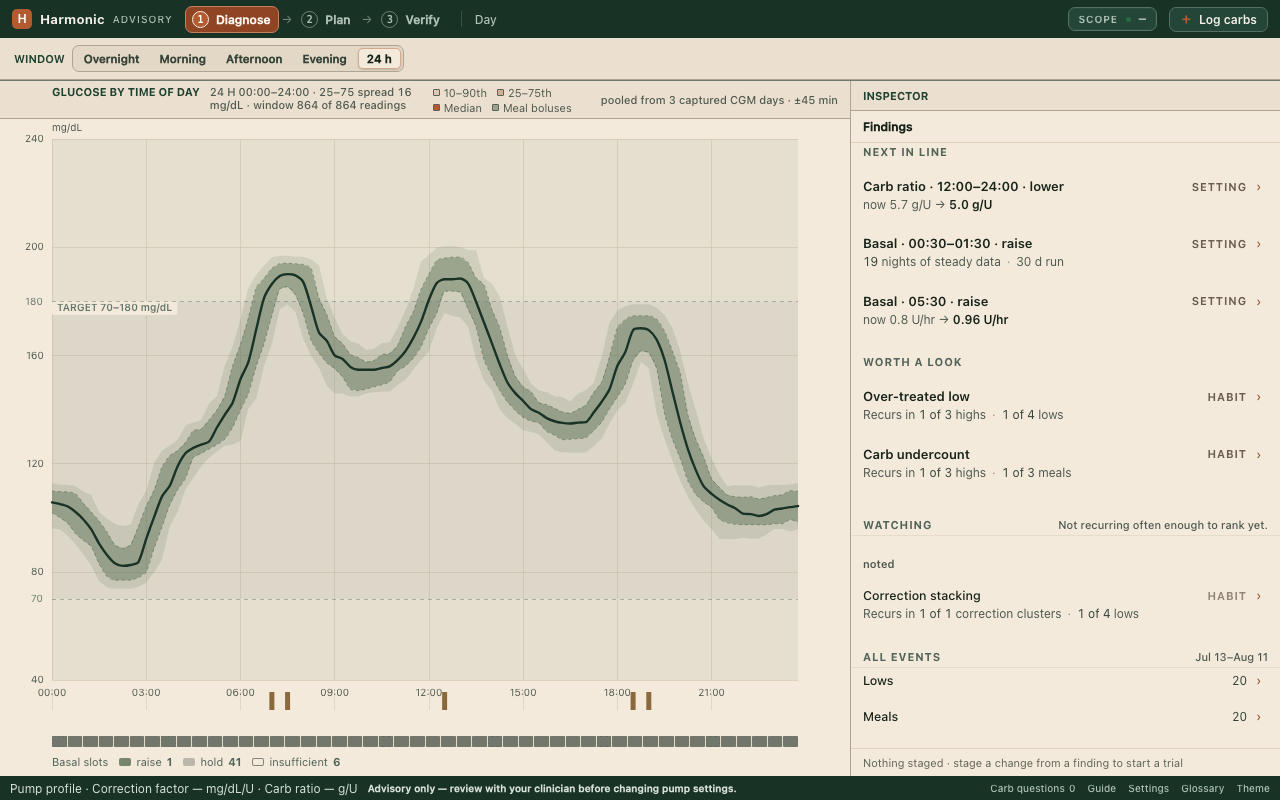
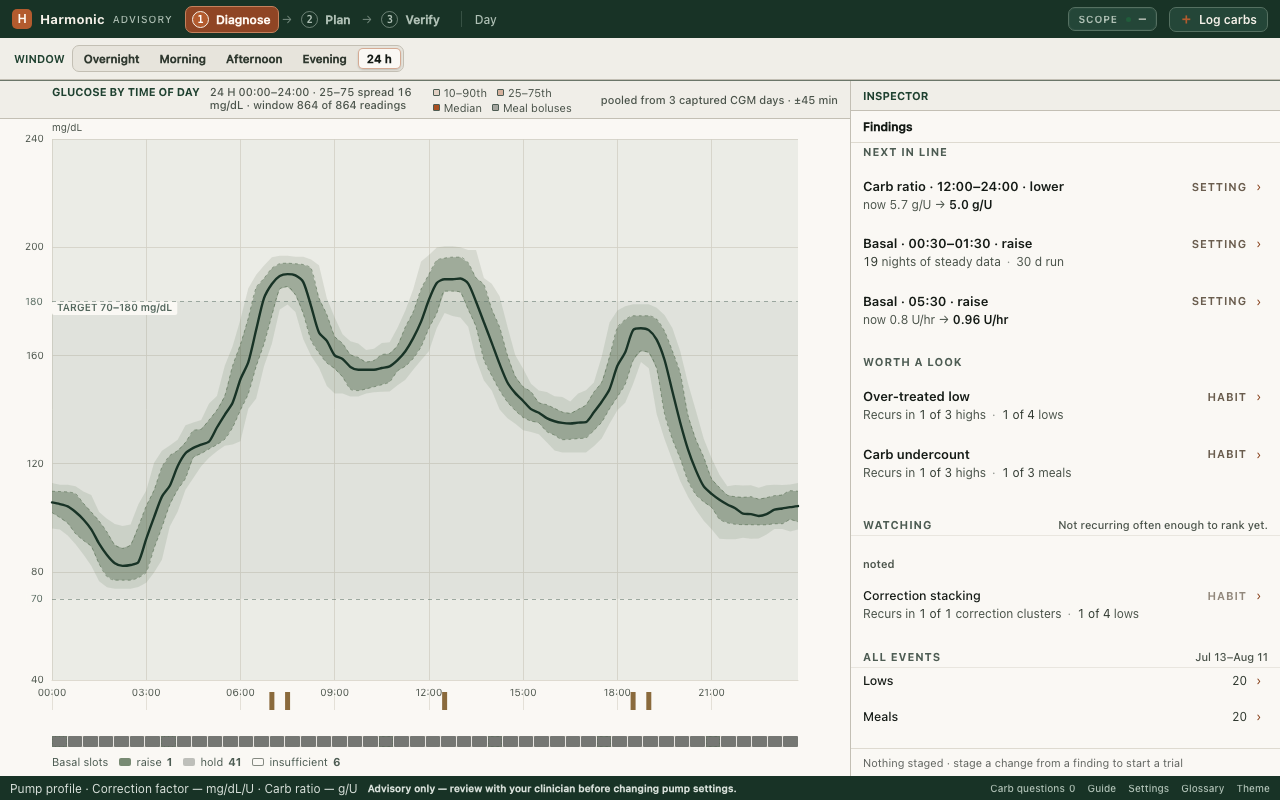
Close the drift hole that let a design exploration measure a retired theme (#46)
* mockups: re-extract the finding→evidence base sheet on the bone theme

`app-base.extracted.css` is generated — build.mjs lifts it verbatim out of
`frontend/index.html`'s <style> blocks — and the committed copy was still the
parchment extract. The relight (63d9053, decision record 37) moved the app's
entire light token block; the extract did not follow, so the exploration
rendered its light half in a palette the application had already retired.

Re-running the build moves 23 declarations: the three grounds, the four inks,
both rules, the signal, the status trio, the accent family, and every clinical
token. The dark block is untouched, because the relight never touched dark.

The two reports and the twenty screenshots follow from that one input. In the
contrast report all 35 light pairs re-measure and all 35 dark pairs are
byte-identical — the split falls exactly along the line the relight drew, which
is what a guard reading live computed style should do and what a guard
comparing constants could not. Every light ratio rises: bone is lighter, so the
dark inks standing on it gain. Every regenerated screenshot is a light one.

No colour was retuned here. The theme moved months ago; this is the mock
catching up to it.

* mockups: give the exploration's build a --check mode, and a CI gate to run it

Nothing in the repository could have caught the stale extract. The build had no
--check mode, unlike the five generators the contributor brief lists, and the
[…]

diff --git a/mockups/finding-evidence-routing.exploration/scene.css b/mockups/finding-evidence-routing.exploration/scene.css
@@ -312,7 +312,7 @@
    applies twice over. Both values below are tuned against their own ground and
    both are asserted by contrast-audit.mjs on every run, which is the only thing
    that stops the next quieting pass from walking them back down:
-     light  `--mk-text` 50% into `--mk-surface-2`  -> 3.51:1 on bone
+     light  `--mk-text` 50% into `--mk-surface-2`  -> 3.82:1 on bone
      dark   `--mk-text` 40% into transparent       -> 3.36:1 on the desk
    The light form still mixes into the column's second surface rather than into
    the ground it sits on, which is the pairing DESIGN.md asks for; only the
@@ -486,10 +486,10 @@ html:not(.dark) .fer-surface .fer-band .seg[aria-pressed="true"] { background: v
    ====================================================================== */
 /* `--ec-near` is `--mk-warn` in both themes, and the Near-rule median is a
  * `limited`-support series, which the shipped lens draws at 1.05px dashed and
- * 58% opacity. On the dark ground that lands as a legible warm dash. On
- * parchment it does not: `--mk-warn` (#9b562d) at 58% over #F3EADB resolves to
- * about #C09476, roughly 1.9:1 against its own ground — a cohort line the reader
- * has to hunt for, on the very chart that exists to compare it.
+ * 58% opacity. On the dark ground that lands as a legible warm dash. On bone it
+ * does not: `--mk-warn` (#94501f) at 58% over #FAF8F4 resolves to about #BF9778,
+ * 2.51:1 against its own ground — a cohort line the reader has to hunt for, on
+ * the very chart that exists to compare it.
  *
  * The alpha is shipped grammar (it is how "limited support" is said, on every
  * cohort), so the INK moves instead: the same warm family, taken far enough down
@@ -641,9 +641,9 @@ html.dark .fer-surface { --ec-near: #d59a60; }
    One declaration each, both themes measured, both derived from the column's own
    ink and surface so the relationship — a recessive track with legible ticks in
    it — resolves the same way on either ground:
-     strip  `--mk-text` 8%  into `--mk-surface`  -> 1.16:1 light / 1.47:1 dark
+     strip  `--mk-text` 8%  into `--mk-surface`  -> 1.17:1 light / 1.47:1 dark
                                                    against the pane (recessive)
-     cell   `--mk-text` 58% into `--mk-surface`  -> 3.33:1 light / 4.39:1 dark
+     cell   `--mk-text` 58% into `--mk-surface`  -> 3.63:1 light / 4.39:1 dark
                                                    against that strip
    The verdict tints (`up` / `down` / `hold` / `insufficient` / `nodata`) are
    shipped rules and still override `--cell`, so they stay the loudest thing in
@@ -675,11 +675,11 @@ html.dark .fer-surface { --ec-near: #d59a60; }
 /* ROUND 11, F3 — THE SWATCHES GET A BOUNDARY, AND KEEP THEIR FILLS.
    Four of the five keys were between 1.23:1 and 2.84:1 against the head rail —
    the percentile swatches inherit the PLOT's own fill alphas (18% and 38% of
-   `--primary`), and on this ground even a solid `--primary` only reaches 3.61:1
+   `--primary`), and on this ground even a solid `--primary` only reaches 4.73:1
    in light, so no alpha exists that would carry a percentile swatch to 3:1. But
    a legend mark is not the plot: what has to clear 1.4.11 is the mark's
    BOUNDARY, and a 1px stroke does that without touching the softness of the
-   bands the chart actually draws. `--mk-secondary` measures 4.90:1 light /
+   bands the chart actually draws. `--mk-secondary` measures 6.09:1 light /
    6.43:1 dark on the rail, and it is applied to all five keys so the rail reads
    as one set of marks rather than two. */
 .fer-head-key .k i {
@@ -704,12 +704,15 @@ html.dark .fer-surface { --ec-near: #d59a60; }
    it to a canvas, and an unresolved `color-mix()` comes back as its own source
    text, which no canvas can paint. */
 /* ROUND 11, F4 — the light half is stepped down until it clears the 3:1 graphics
-   floor on bone (2.37:1 -> 3.40:1); dark measured 3.81:1 and is unchanged. The
+   floor on bone (3.82:1); dark measured 3.81:1 and is unchanged. The
    lead/recessive separation this pair exists for is carried by HUE and by the
-   selected dot's size, not by lightness — dot against accent is 1.16:1 light /
-   1.03:1 dark, and it was already thin at 1.67:1 before this step. That is a
-   real limit of the pair and is reported rather than papered over; the floor is
-   the thing that is not negotiable. */
+   selected dot's size, not by lightness — dot against `--primary` is 1.35:1
+   light / 1.69:1 dark. That is a real limit of the pair and is reported rather
+   than papered over; the floor is the thing that is not negotiable.
+   The pre-step light literal this replaced is unrecoverable (#40 was squashed
+   and the value survives in no comment, report or lock), so the "2.37:1 -> "
+   this note used to open with is gone rather than restated on a ground it was
+   never measured against. */
 .fer-surface { --fer-dot: #5c8494; }
 html.dark .fer-surface { --fer-dot: #4d7789; }
 
@@ -765,26 +768,30 @@ html.dark .fer-surface { --fer-dot: #4d7789; }
  * declared here rather than fixed one selector at a time.
  */
 .fer-surface {
-  /* (a) THE ROUTE INK. `--primary` is `#b35b2e` on bone, which is 3.95:1 — so
-     every accent-inked STRING in light failed at once: both routes, the
-     expander, the queue chevron, the option tick. The fix is not a new colour;
-     it is the accent's own next step, `--primary-600`, which the app already
-     pairs per theme (`#8f4524` light, `#ef9459` dark) and which clears the floor
-     on both the pane ground and the row wash the option tick sits on:
-       light  5.78:1 on bone / 5.22:1 on the selected-option wash
+  /* (a) THE ROUTE INK. This was written against the PARCHMENT light theme,
+     where `--primary` was `#b35b2e` at 3.95:1 and every accent-inked STRING in
+     light failed at once: both routes, the expander, the queue chevron, the
+     option tick. The fix is not a new colour; it is the accent's own next step,
+     `--primary-600`, which the app already pairs per theme (`#87401a` light,
+     `#ef9459` dark) and which clears the floor on both the pane ground and the
+     row wash the option tick sits on:
+       light  7.13:1 on bone / 6.40:1 on the selected-option wash
        dark   6.79:1 on the desk / 4.83:1 on that wash
-     Dark's `--primary` would have passed on the pane (5.46:1) and failed on the
-     wash (3.88:1), which is exactly the half-measured fix this round exists to
-     stop. One token, one value, both themes. */
+     THE LIGHT HALF OF THIS FIX IS NOW REDUNDANT. The bone relight (decision
+     record 37) took `--primary` to `#a94f21`, which measures 5.17:1 on the pane
+     and 4.65:1 on the wash — so light would clear 4.5:1 unaided today. Dark is
+     what keeps the token: dark's `--primary` passes on the pane (5.46:1) and
+     still fails on the wash (3.88:1), which is exactly the half-measured fix
+     this round exists to stop. One token, one value, both themes. */
   --fer-route-ink: var(--primary-600);
   /* (b) THE DIM META INK, which was `color-mix(--mk-text 45%, transparent)` on
      the dock line, the residue and the band's meta, and 55% on the two counts.
-     At 2.71:1 and 3.56:1 in light neither cleared 4.5:1, and the two steps have
+     At 2.88:1 and 3.88:1 in light neither cleared 4.5:1, and the two steps have
      no room between them above the floor — so they become ONE dim register
      rather than two that both fail. Light needs 63% and dark 56% against the
      worst ground either lands on (the dock's own fill, and the selected-option
      wash), so each theme takes its own value with margin:
-       light  66% -> 4.93:1 on bone, 4.71:1 on the row wash
+       light  66% -> 5.54:1 on bone, 5.30:1 on the row wash
        dark   62% -> 6.04:1 on the desk, 5.26:1 on the dock, 4.79:1 on the wash
      It is still visibly dimmer than `--mk-muted` in light, which is the step the
      register exists for. */

diff --git a/mockups/finding-evidence-routing.exploration/app-base.extracted.css b/mockups/finding-evidence-routing.exploration/app-base.extracted.css
@@ -14,11 +14,11 @@
          resolved values here, so this block stays what
          #612 made it — the one material home for the whole app. --bg/--text/…
          and shell.css's cockpit tokens resolve onto --wk-*, so every existing
-         rule inherits the parchment ground with no per-rule edit. The shell's
+         rule inherits the sheet's ground with no per-rule edit. The shell's
          ROLE rules (chrome bar · instrument rail · pane header rail · pane body ·
          dock floor) live in frontend/theme.css.
 
-         LIGHT — a bone sheet on a dark evergreen desk (#736 relit 2026-08-18:
+         LIGHT — a bone sheet on a dark evergreen desk (ADR 37 relit 2026-08-18:
          the parchment family kept its warmth but gave up ~60% of its chroma, and
          the rule darkened, because three grounds within 6% of each other over a
          pale rule read as beige wash rather than as sheet, rail and field).

diff --git a/AGENTS.md b/AGENTS.md
@@ -62,6 +62,23 @@ uv run python scripts/gen_findings_projection_fixtures.py --check
 uv run python scripts/gen_chart_builder_fixtures.py --check
 ```
 
+The frontend job runs a sixth, in Node, over a design exploration's build
+script — the one generator here that is not a fixture builder. Its command
+lives in `.github/workflows/ci.yml`; the exploration itself is a private design
+artifact and does not ship, so it is not named here.
+
+**A mockup that extracts from the app is a generated artifact, and the same
+`--check` rule binds it.** Such a build typically commits a stylesheet lifted
+verbatim out of `frontend/index.html`, a component lifted out of a shipped
+module, and a data file run through the shipped producers — all three move when
+the app moves. When the app's light theme was relit (decision record 37) one
+such extract was not regenerated, and that exploration's own contrast guard went
+on measuring the retired palette for an entire round, reporting zero failures
+the whole time. The guard was sound; its input was stale, which is a failure no
+amount of auditing the guard would have revealed. If you add a mockup that
+extracts from shipped source, add its `--check` and its CI step in the same
+change.
+
 The findings-projection fixture also freezes the three payloads it projected
 FROM. The browser gates have no Python, so they answer `/diagnose/findings` from
 a fixture-only JS mirror of that projection, kept beside the synthetic fixture
